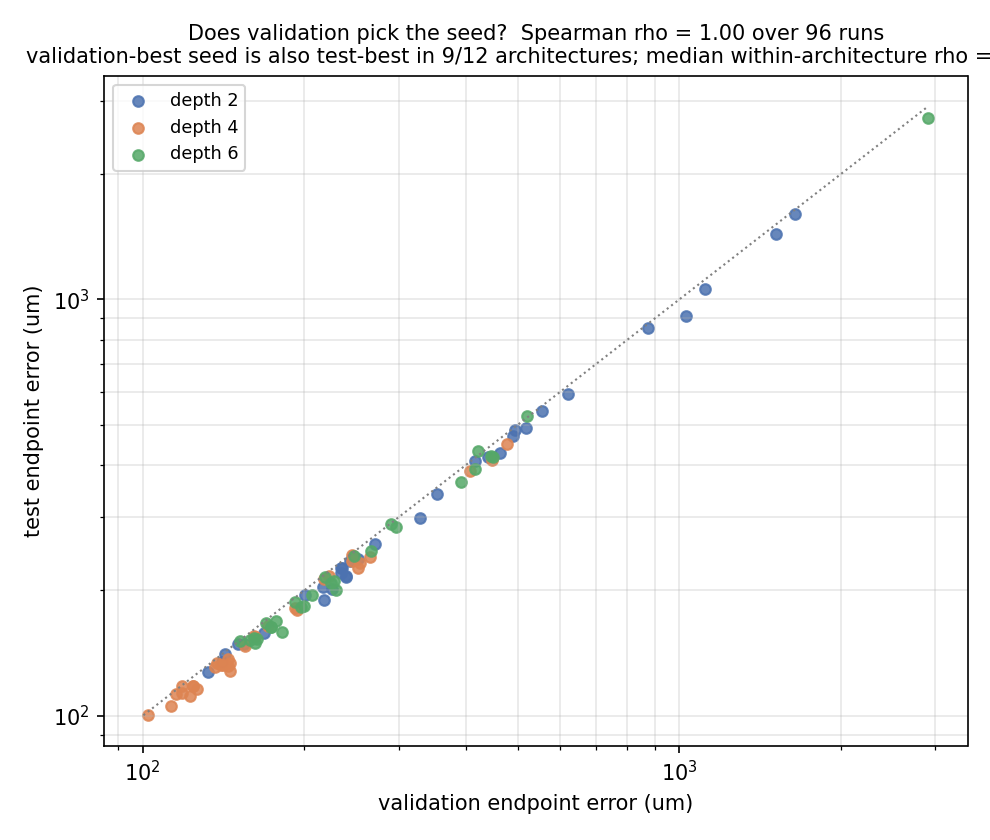
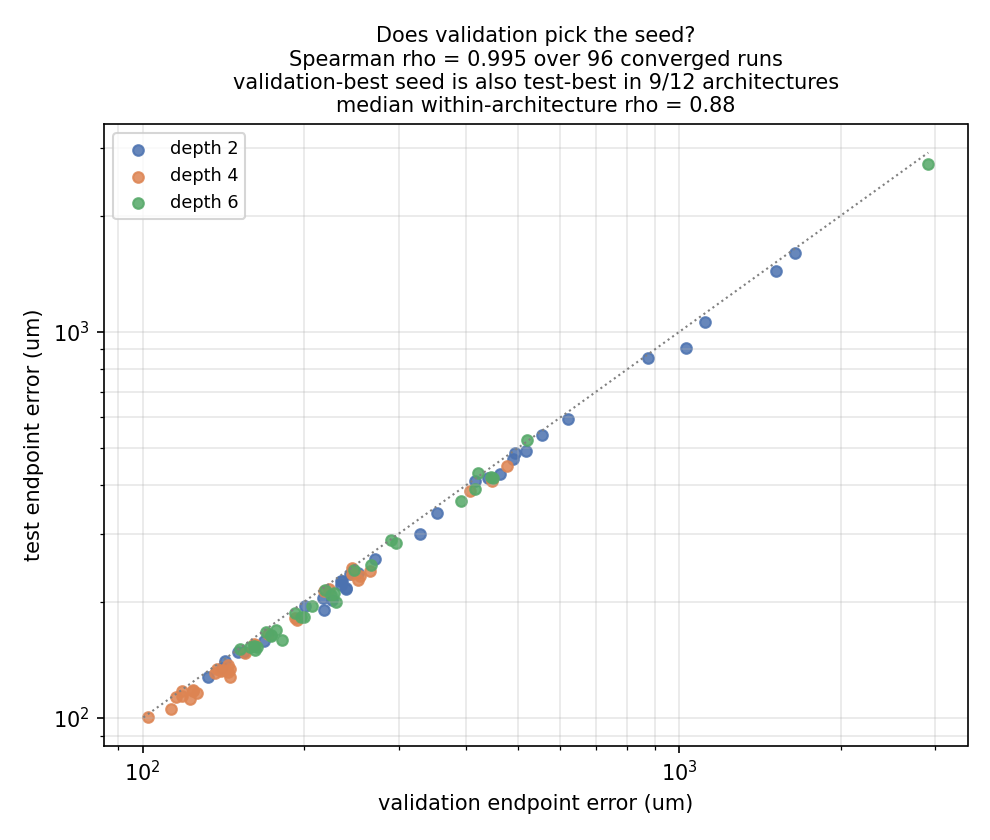
Selection figure: put the whole caption inside the frame

diff --git a/Raissi_disc_time_approach/Network_size_and_seed_study/plot.py b/Raissi_disc_time_approach/Network_size_and_seed_study/plot.py
@@ -242,11 +242,12 @@ def fig_val_vs_test(runs):
     ax.set_xlabel("validation endpoint error (um)")
     ax.set_ylabel("test endpoint error (um)")
     sub = "" if not n_arch else (
-        "\nvalidation-best seed is also test-best in %d/%d architectures; "
-        "median within-architecture rho = %.2f"
+        "\nvalidation-best seed is also test-best in %d/%d architectures"
+        "\nmedian within-architecture rho = %.2f"
         % (hits, n_arch, float(np.median(rhos))))
-    ax.set_title("Does validation pick the seed?  Spearman rho = %.2f "
-                 "over %d runs%s" % (rho_all, len(c), sub), fontsize=10)
+    ax.set_title("Does validation pick the seed?\n"
+                 "Spearman rho = %.3f over %d converged runs%s"
+                 % (rho_all, len(c), sub), fontsize=10)
     ax.grid(alpha=0.3, which="both")
     ax.legend(fontsize=8.5)
     fig.tight_layout()
